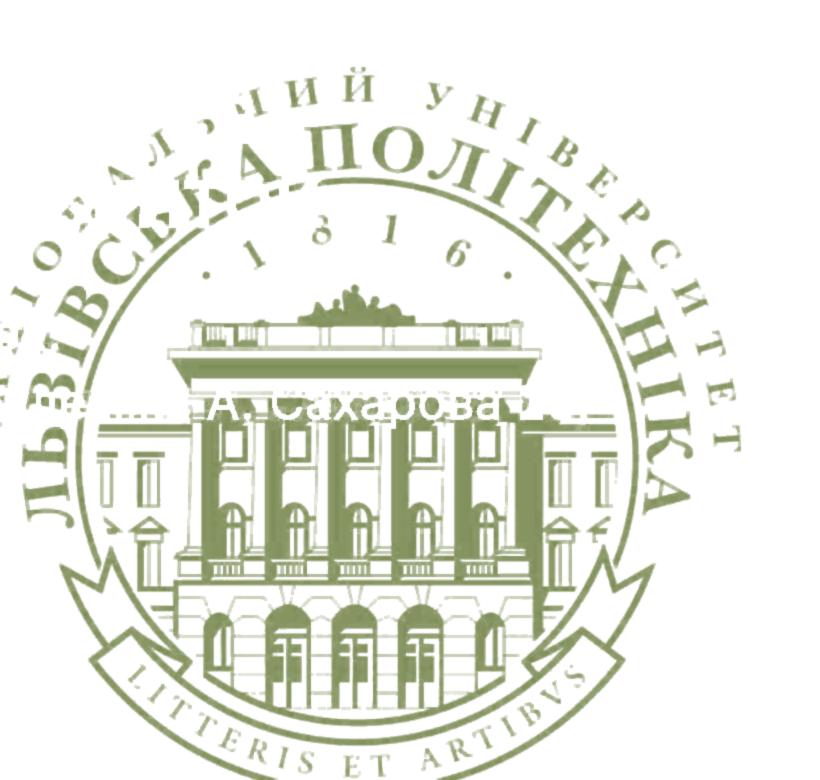
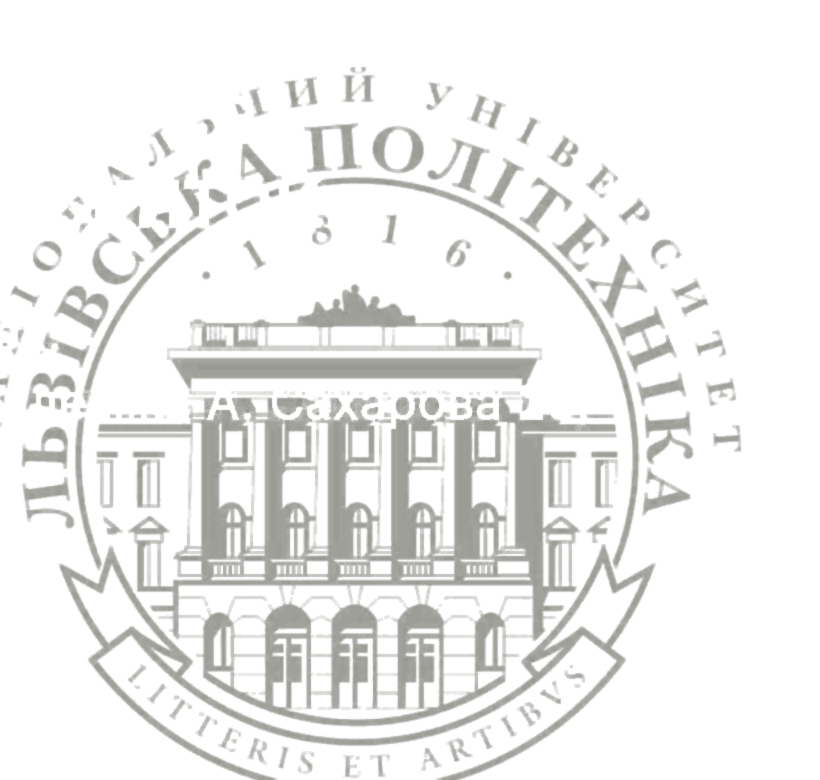
new

diff --git a/style.css b/style.css
@@ -4,7 +4,7 @@
   --olive: #688217;
   --olive-strip: #6a8420;
   --divider: #c6e270;
-  --text-dark: #1e2907;
+  --text-dark: #33421c;
   --text-muted: #4a5a35;
   --white: #ffffff;
   --nav-blue: #1aa3e0;
@@ -104,14 +104,14 @@ h1 {
   height: 100vh;
   display: flex;
   flex-direction: column;
-  padding: max(14px, env(safe-area-inset-top)) 18px max(12px, env(safe-area-inset-bottom));
-  gap: clamp(6px, 1.6dvh, 14px);
+  padding: max(14px, env(safe-area-inset-top)) 18px max(10px, env(safe-area-inset-bottom));
   overflow: hidden;
 }
 
 .page-title {
-  font-size: clamp(24px, 6dvh, 34px);
+  font-size: clamp(22px, 5.2dvh, 30px);
   flex: 0 0 auto;
+  margin-bottom: clamp(6px, 1.2dvh, 12px);
 }
 
 .card {
@@ -119,7 +119,7 @@ h1 {
   min-height: 0;
   background: var(--card-bg);
   border-radius: 20px;
-  padding: clamp(14px, 3dvh, 24px) clamp(16px, 5vw, 22px);
+  padding: clamp(12px, 2.6dvh, 20px) clamp(16px, 5vw, 22px);
   position: relative;
   overflow: hidden;
   display: flex;
@@ -131,11 +131,12 @@ h1 {
 
 .card > .seal {
   position: absolute;
-  top: 6%;
-  right: -18%;
-  width: 66%;
-  max-width: 300px;
-  opacity: 0.95;
+  top: 3%;
+  left: 14%;
+  right: auto;
+  width: 62%;
+  max-width: 280px;
+  opacity: 0.9;
   pointer-events: none;
   z-index: 0;
 }
@@ -226,7 +227,9 @@ h1 {
   align-items: flex-end;
   background: #fff;
   border-radius: 26px;
-  padding: 8px 4px calc(6px + env(safe-area-inset-bottom, 0px));
+  margin-top: clamp(16px, 3.2dvh, 26px);
+  margin-bottom: max(10px, env(safe-area-inset-bottom));
+  padding: 8px 4px 10px;
   box-shadow: 0 6px 20px rgba(0,0,0,0.08);
 }
 
